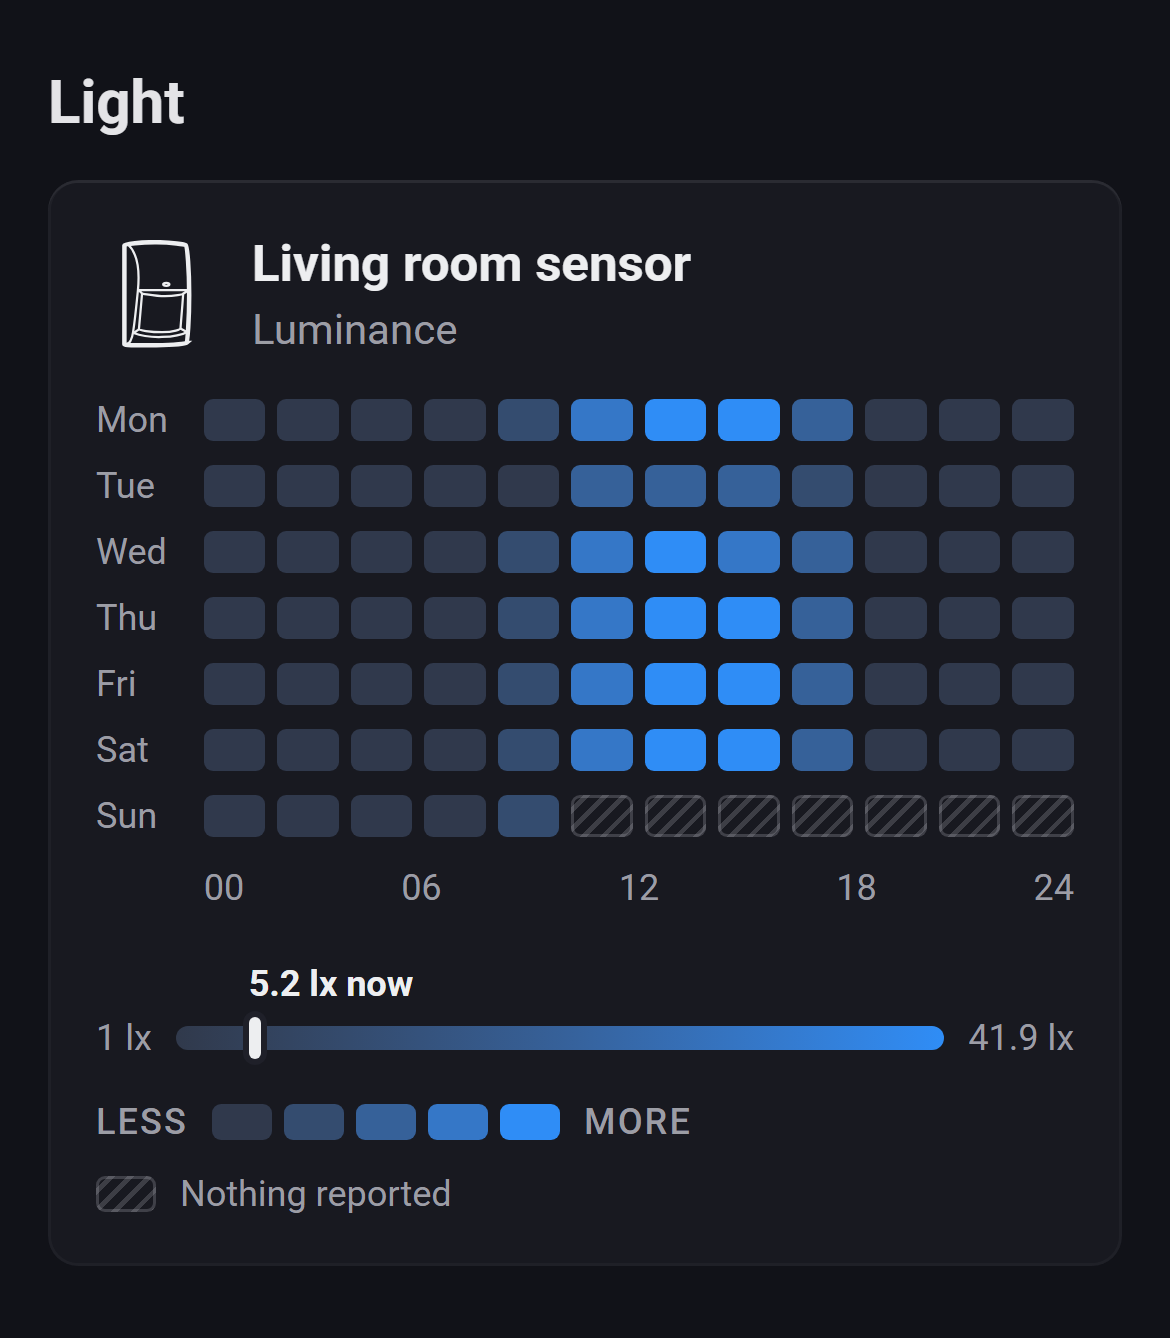
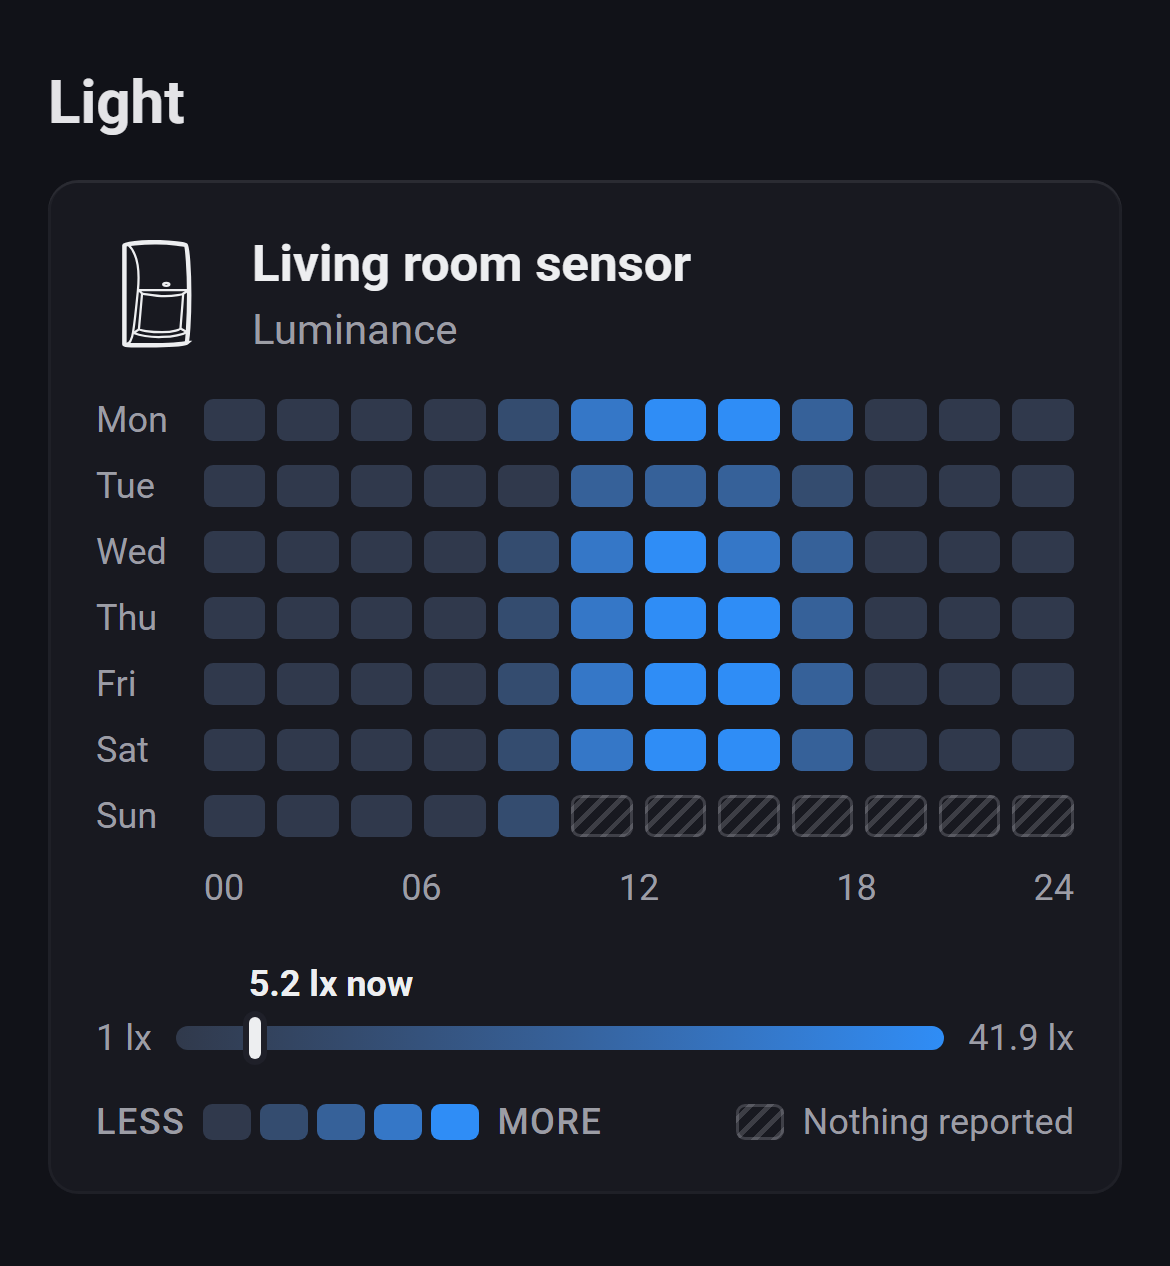
Insights Heatmap: legend on one line
- The Less → More scale and "Nothing reported" no longer wrap onto two
  lines: 16 px swatches, and at 300 px or less of content (container
  query) 9 px swatches without letter spacing on LESS/MORE. Every language
  checked fits at Homey's narrowest widget; the "Nothing reported" text
  ellipsizes as a last resort.
- README screenshot re-rendered; noted in CLAUDE.md.

Claude-Session: https://claude.ai/code/session_01GewyFsm3WfxTgAkZYVow9s

diff --git a/widgets/heatmap/public/widget.css b/widgets/heatmap/public/widget.css
@@ -22,6 +22,7 @@
   --hm-regular: var(--homey-font-weight-regular, 400);
   --hm-medium: var(--homey-font-weight-medium, 500);
   --hm-bold: var(--homey-font-weight-bold, 700);
+  container: hm / inline-size;
 }
 
 /* On html, so a font Homey's widget stylesheet sets on body wins; this is the fallback outside Homey. */
@@ -105,11 +106,21 @@ html, body { margin: 0; }
 .hm-now.end { transform: translateX(calc(-100% + 2px)); }
 .hm-now.center { left: 50%; }
 
-/* Legend */
-.hm-legend { display: flex; flex-wrap: wrap; justify-content: space-between; gap: 8px 16px; }
-.hm-legend-group { display: flex; align-items: center; gap: 4px; }
-.hm-legend-group:first-child > span:not(.hm-swatch) { text-transform: uppercase; letter-spacing: .06em; font-weight: var(--hm-medium); }
-.hm-legend-group:first-child > span:first-child { margin-right: 4px; }
-.hm-legend-group:first-child > span:last-child { margin-left: 4px; }
-.hm-legend-group:last-child .hm-swatch { margin-right: 4px; }
-.hm-swatch { width: 20px; height: 12px; border-radius: 3px; flex-shrink: 0; }
+/* Legend: less → more and the hatched "nothing reported", on one line; the latter's text truncates if it must. */
+.hm-legend { display: flex; flex-wrap: nowrap; justify-content: space-between; align-items: center; gap: 12px; min-width: 0; }
+.hm-legend-group { display: flex; align-items: center; gap: 3px; min-width: 0; }
+.hm-legend-group:first-child { flex-shrink: 0; }
+.hm-legend-group > span:not(.hm-swatch) { white-space: nowrap; }
+.hm-legend-group:first-child > span:not(.hm-swatch) { text-transform: uppercase; letter-spacing: .04em; font-weight: var(--hm-medium); }
+.hm-legend-group:first-child > span:first-child { margin-right: 3px; }
+.hm-legend-group:first-child > span:last-child { margin-left: 3px; }
+.hm-legend-group:last-child .hm-swatch { margin-right: 3px; }
+.hm-legend-group:last-child > span:last-child { overflow: hidden; text-overflow: ellipsis; }
+.hm-swatch { width: 16px; height: 12px; border-radius: 3px; flex-shrink: 0; }
+/* Narrow widgets (300 px, ~270 px of content): smaller swatches, so "Nothing reported" still fits beside the scale. */
+@container hm (max-width: 300px) {
+  .hm-legend { gap: 8px; }
+  .hm-legend-group { gap: 2px; }
+  .hm-swatch { width: 9px; }
+  .hm-legend-group:first-child > span:not(.hm-swatch) { letter-spacing: 0; }
+}

diff --git a/CLAUDE.md b/CLAUDE.md
@@ -121,6 +121,7 @@ Homey Pro app (`com.thomassidor.widgetkeeper`) that hosts custom dashboard widge
 - Numbers: Insights `last7Days` or `last14Days` (both hourly), one average per UTC hour, put on its local hour (two on the autumn DST hour are averaged). Cached 5 min per span, dropped after 10 min without a request.
 - Booleans: Insights can't do a week (see the API facts), so the app records them. From the first `/history` request, a capability instance logs each change as `[t, 0|1]`, backfilled with Insights' last 50 changes (`mergeChanges`). They're kept in the app setting `heatmapHistory` (saved at most once a minute, pruned to 15 days), resubscribed on app start, and forgotten 8 days after the last request. A cell is the share of the known part of the hour that was true (`hourlyShareTrue`, in 15-min slices so half-hour timezones work).
 - Scale: 5 levels between the lowest and highest cell shown (equal → the middle level); booleans start at 0 % (the user chose min–max, but a little motion then read as "less"). The bar shows min/max and a marker with `5.2 lx now`; booleans show `Active now`/`Inactive now` instead. Colours are Homey's blue mixed into the empty-cell colour (`--hm-l0…4`); the reference was purple, the project keeps Homey's blue.
+- The legend keeps Less → More and Nothing reported on one line (the user asked): no wrapping, 16 px swatches, and below 300 px of content (`@container hm`) 9 px swatches without letter spacing. That fits every language at 300 px; the Nothing reported text ellipsizes as a last resort.
 - Type: weekdays, axis, scale and legend are 12/16 like the electricity axis labels. The dark frame `.hm-frame` copies `.tw-frame`. No realtime; the widget refetches every 5 min.
 
 ## Diagnostics (no Docker needed)
